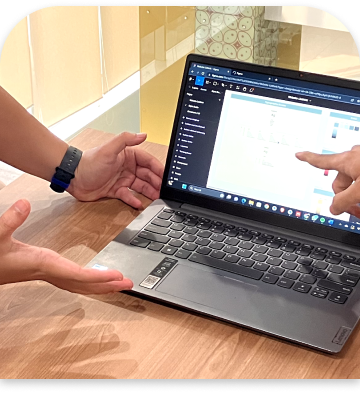
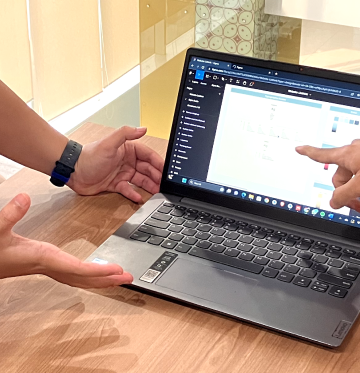
feat: styling medium display section contact us

diff --git a/components/home/contact/ContactUs.js b/components/home/contact/ContactUs.js
@@ -77,16 +77,17 @@ const ImageContact = ({ isMobile }) => {
   return (
     <div className="relative">
       <div
-        className={`bg-yellow-primary rounded-full grid place-content-center absolute ${styleArrow}`}>
+        className={`bg-yellow-primary rounded-full grid place-content-center absolute z-10 ${styleArrow}`}>
         <Image src={Arrow} alt="Arrow" width={sizeArrow} height={sizeArrow} className="rotate-90" />
       </div>
-      <Image
-        src="/assets/images/contact-us.png"
-        alt="Contact us image"
-        width={502}
-        height={510}
-        className="rounded-tl-[80px] shadow-lg"
-      />
+      <div className="relative aspect-square">
+        <Image
+          src="/assets/images/contact-us.png"
+          alt="Contact us image"
+          fill
+          className="rounded-tl-[80px] shadow-lg"
+        />
+      </div>
     </div>
   );
 };
@@ -95,12 +96,12 @@ export default function ContactUs() {
   const { displaySize } = useSelector((state) => state);
   const { t } = useTranslation();
   return (
-    <div className="max-w-7xl md:px-3 mx-auto mt-[92px] pb-8 md:pb-32 relative">
-      <div className="py-8 md:py-11 px-6 md:px-16 bg-yellow-primary md:rounded-[80px]">
-        <div className="w-[250px] md:w-[270px] h-[315px] absolute left-[50%] translate-x-[-50%] md:left-16 md:translate-x-0 -top-16">
+    <div className="max-w-7xl lg:px-3 xl:px-0 mx-auto mt-[92px] pb-8 md:pb-32 relative">
+      <div className="py-8 lg:py-11 px-6 lg:px-16 bg-yellow-primary lg:rounded-[80px]">
+        <div className="w-[250px] md:w-[270px] h-[315px] md:h-[350px] absolute left-[50%] translate-x-[-50%] md:left-16 md:translate-x-0 -top-16">
           <Image src="/assets/images/discuss.png" alt="Discussion" fill />
         </div>
-        <div className="md:ml-[40%] mt-60 md:mt-0">
+        <div className="md:ml-[45%] lg:ml-[40%] mt-60 md:mt-0">
           <h1
             className="font-inter font-semibold text-[40px] md:text-[48px] 
           leading-[48px] md:leading-[58px] text-black-primary mb-8 md:mb-[42px]">
@@ -113,19 +114,19 @@ export default function ContactUs() {
       </div>
       <div
         id="contact-us"
-        className="pt-[86px] md:pt-36 grid md:grid-cols-[auto_510px] gap-10 md:gap-24 px-6 md:px-0">
+        className="pt-[86px] md:pt-36 grid md:grid-cols-2 gap-10 md:gap-24 px-6 md:px-8 lg:px-0">
         {displaySize.small && <ImageContact isMobile />}
 
         <div className="mt-8 md:mt-0">
           <h1 className="font-semibold text-[40px] md:text-[80px] leading-[48px] md:leading-[96px] text-black-primary font-inter">
             {t('contact_us_title')}
           </h1>
-          <h2 className="font-medium text-2xl leading-9 text-black-primary mt-4 md:mt-10 mb-10 md:mb-6 max-w-xl">
+          <h2 className="font-medium text-2xl leading-9 text-black-primary mt-4 md:mt-10 mb-10 md:mb-6 md:max-w-xl">
             {t('contact_us_desc')}
           </h2>
           <FormContact />
         </div>
-        <div className="grid grid-cols-2 gap-10 md:block">
+        <div className="grid grid-cols-2 gap-10 md:block sm:ml-10 md:ml-0">
           {displaySize.small ? <MenuWrapper /> : <ImageContact />}
           <Socials />
         </div>

diff --git a/components/home/contact/FormContact.js b/components/home/contact/FormContact.js
@@ -22,7 +22,7 @@ export default function FormContact() {
   };
 
   return (
-    <form onSubmit={handleSubmit} className="max-w-[430px]">
+    <form onSubmit={handleSubmit} className="md:max-w-[430px]">
       <Input
         name="name"
         value={form.name}
